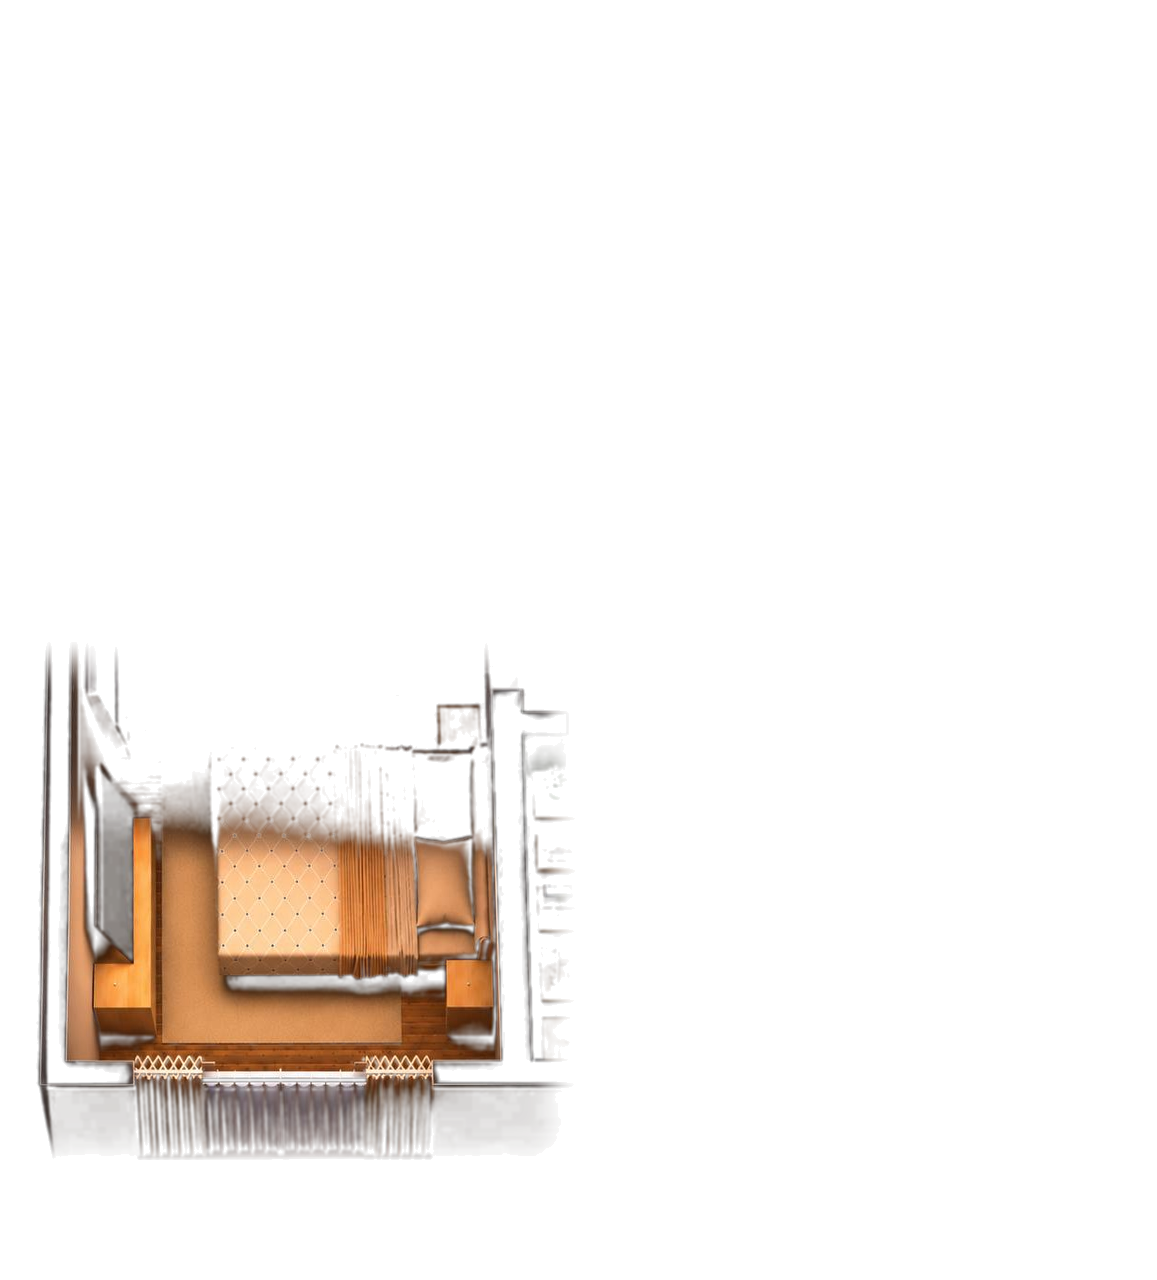
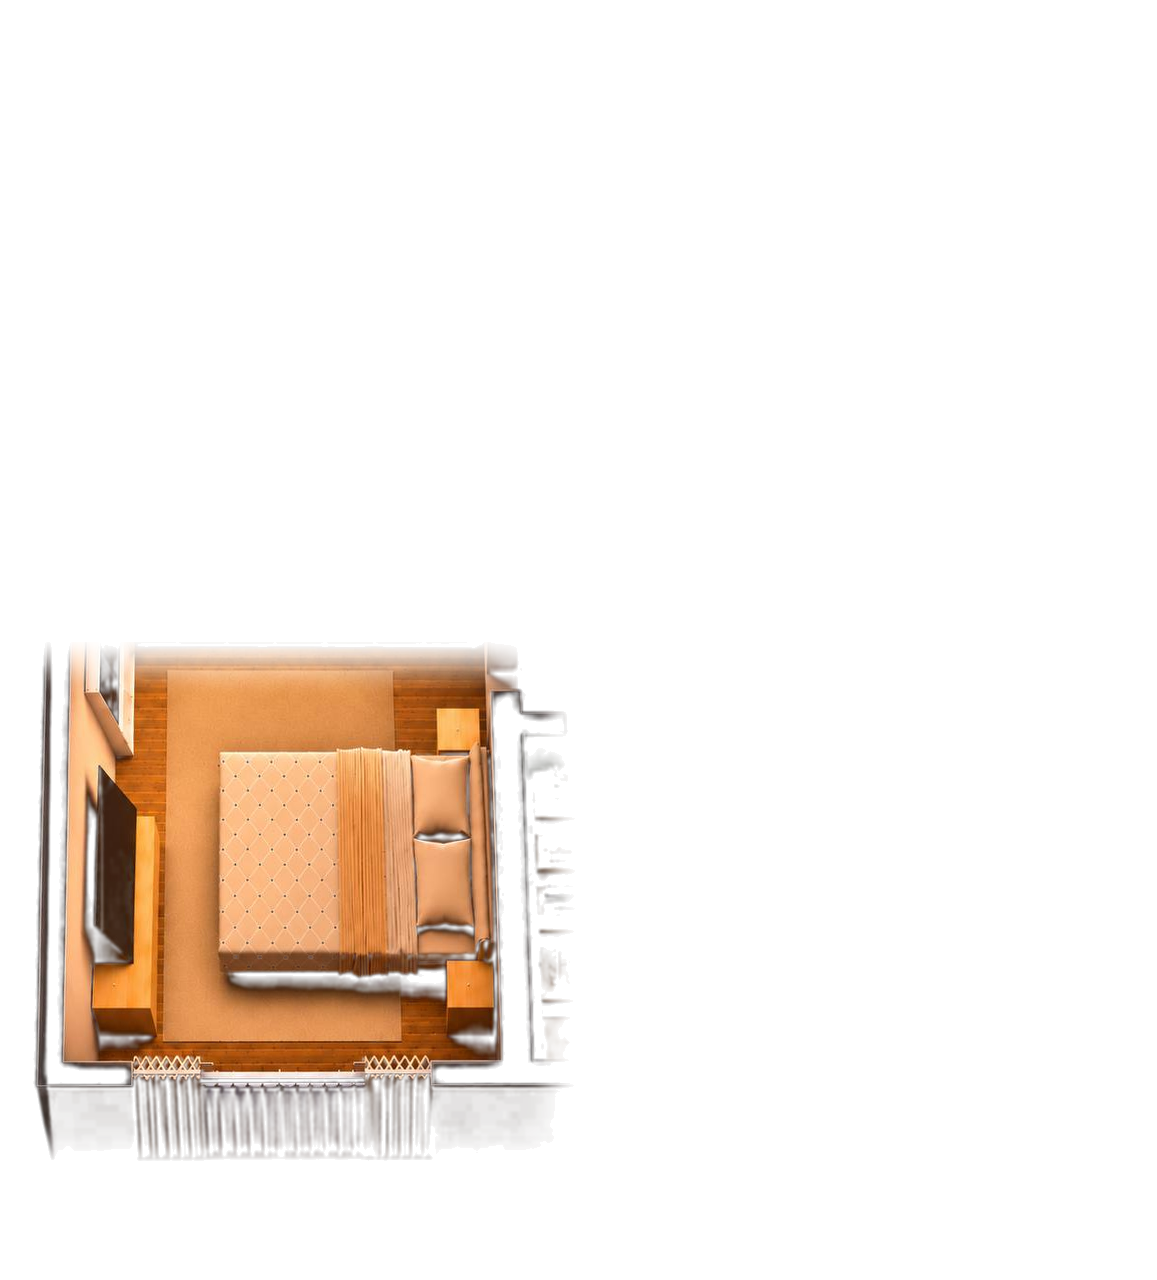
Split bedroom light into full room halves

Changed region(s): [[0.0311, 0.5, 0.4978, 0.9062]]

diff --git a/index.html b/index.html
@@ -6,7 +6,7 @@
     <meta name="theme-color" content="#0b1020" />
     <meta name="description" content="Личная панель управления умным домом" />
     <link rel="manifest" href="./manifest.webmanifest" />
-    <link rel="stylesheet" href="./styles.css?v=8" />
+    <link rel="stylesheet" href="./styles.css?v=9" />
     <title>Мой дом</title>
   </head>
   <body>
@@ -146,8 +146,8 @@
                   <image class="lighting-layer" data-light-layer="f2-closet-light" href="./assets/floor2/layers/f2-closet-light.webp" width="1157" height="1280" preserveAspectRatio="none"/>
                   <image class="lighting-layer" data-light-layer="f2-stairs-light" href="./assets/floor2/layers/f2-stairs-light.webp" width="1157" height="1280" preserveAspectRatio="none"/>
                   <image class="lighting-layer" data-light-layer="f2-laundry-light" href="./assets/floor2/layers/f2-laundry-light.webp" width="1157" height="1280" preserveAspectRatio="none"/>
-                  <image class="lighting-layer" data-light-layer="f2-guest-accent" href="./assets/floor2/layers/f2-guest-accent.webp" width="1157" height="1280" preserveAspectRatio="none"/>
-                  <image class="lighting-layer" data-light-layer="f2-guest-wardrobe" href="./assets/floor2/layers/f2-guest-wardrobe.webp" width="1157" height="1280" preserveAspectRatio="none"/>
+                  <image class="lighting-layer" data-light-layer="f2-guest-accent" href="./assets/floor2/layers/f2-guest-accent.webp?v=9" width="1157" height="1280" preserveAspectRatio="none"/>
+                  <image class="lighting-layer" data-light-layer="f2-guest-wardrobe" href="./assets/floor2/layers/f2-guest-wardrobe.webp?v=9" width="1157" height="1280" preserveAspectRatio="none"/>
                   <image class="lighting-layer" data-light-layer="f2-bed-lamp-1" href="./assets/floor2/layers/f2-bed-lamp-1.webp" width="1157" height="1280" preserveAspectRatio="none"/>
                   <image class="lighting-layer" data-light-layer="f2-bed-lamp-2" href="./assets/floor2/layers/f2-bed-lamp-2.webp" width="1157" height="1280" preserveAspectRatio="none"/>
                   <image class="lighting-layer" data-light-layer="f2-bath-main" href="./assets/floor2/layers/f2-bath-main.webp" width="1157" height="1280" preserveAspectRatio="none"/>
@@ -225,6 +225,6 @@
     <div class="toast" id="toast" role="status" aria-live="polite"></div>
     <dialog class="settings-modal" id="vacuum-modal"></dialog>
     <dialog class="settings-modal" id="camera-modal"></dialog>
-    <script src="./app.js?v=8"></script>
+    <script src="./app.js?v=9"></script>
   </body>
 </html>

diff --git a/service-worker.js b/service-worker.js
@@ -1,5 +1,5 @@
-const CACHE = "my-home-dashboard-v8";
-const ASSETS = ["./", "./index.html", "./styles.css?v=8", "./app.js?v=8", "./manifest.webmanifest"];
+const CACHE = "my-home-dashboard-v9";
+const ASSETS = ["./", "./index.html", "./styles.css?v=9", "./app.js?v=9", "./manifest.webmanifest"];
 self.addEventListener("install", event => event.waitUntil(caches.open(CACHE).then(cache => cache.addAll(ASSETS)).then(() => self.skipWaiting())));
 self.addEventListener("activate", event => event.waitUntil(caches.keys().then(keys => Promise.all(keys.filter(key => key !== CACHE).map(key => caches.delete(key)))).then(() => self.clients.claim())));
 self.addEventListener("fetch", event => event.respondWith(caches.match(event.request).then(hit => hit || fetch(event.request))));
